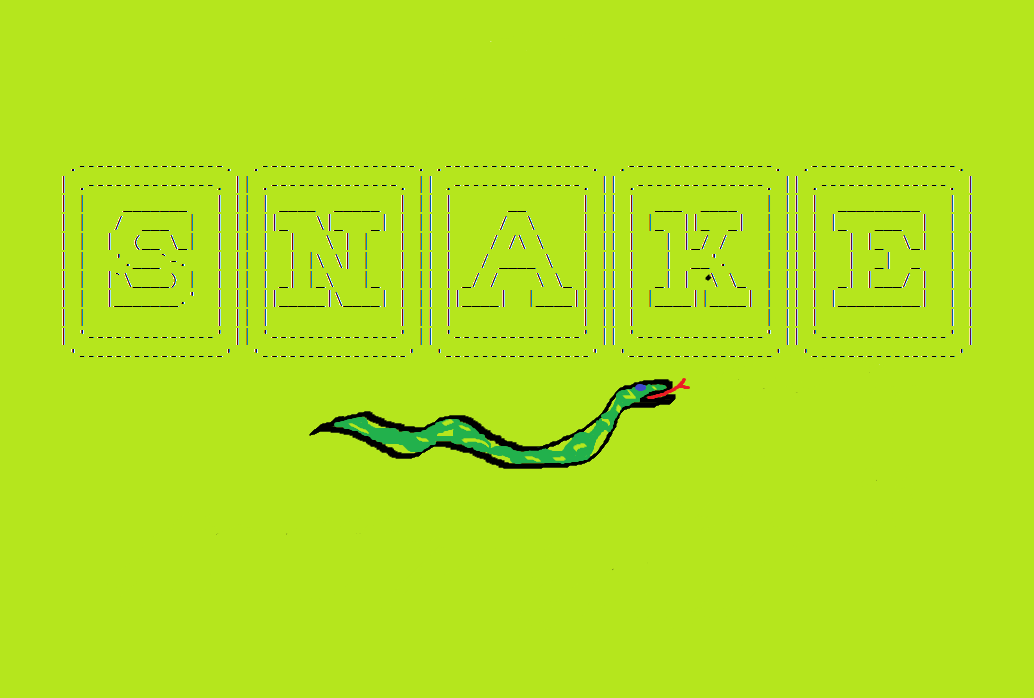
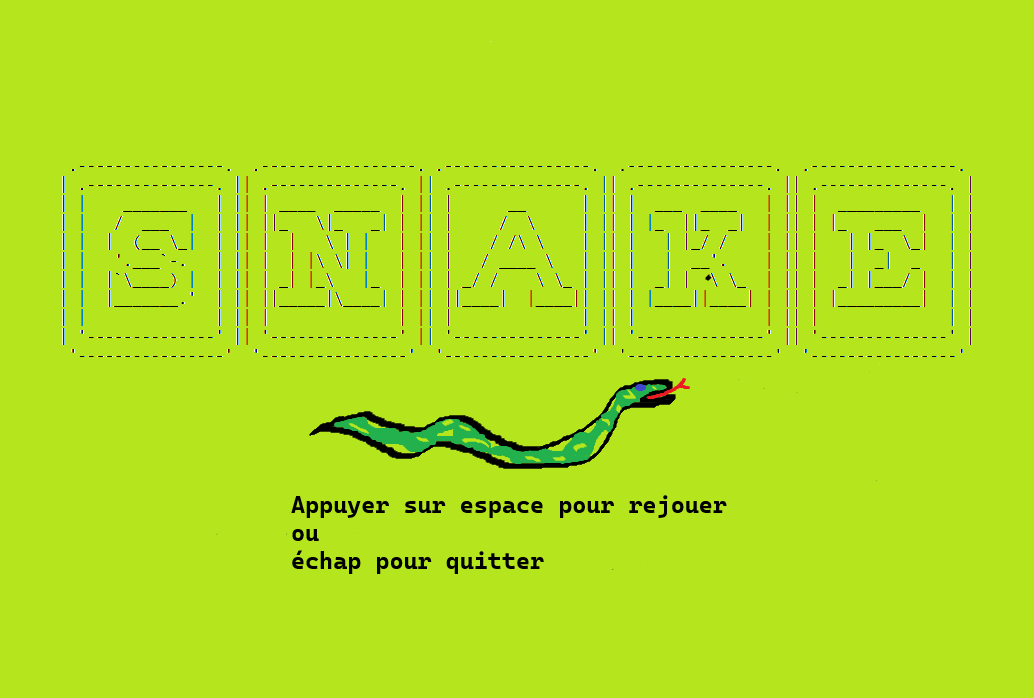
maj2.3

Changed region(s): [[0.2785, 0.692, 0.7118, 0.8424]]

diff --git a/menu.py b/menu.py
@@ -1,11 +1,11 @@
 import pygame
-import sys
+from pygame.locals import *
 
 BLEU_TURQUOISE_FONCE = (0, 102, 102)
 BLANC = (255, 255, 255)
 
-largeur_fenetre_accueil = 400
-hauteur_fenetre_accueil = 300
+largeur_fenetre_accueil = 1034
+hauteur_fenetre_accueil = 511
 
 pygame.init()
 
@@ -20,29 +20,24 @@ def afficher_texte(texte, x, y, couleur, surface):
     surface.blit(texte_surface, texte_rect)
 
 def afficher_accueil():
-    while True:
-        fenetre_accueil.fill(BLEU_TURQUOISE_FONCE)
+    # Mise en place fond d'écran
+    fond = pygame.image.load("sources/acceuil.png")
+    fenetre_accueil.blit(fond, (0, 0))
+    pygame.display.flip()
 
-        afficher_texte('Menu du Snake', largeur_fenetre_accueil // 2, hauteur_fenetre_accueil // 4, BLANC, fenetre_accueil)
-
-        pygame.draw.rect(fenetre_accueil, BLANC, (50, 150, 300, 50))
-        afficher_texte('Jouer', largeur_fenetre_accueil // 2, 175, BLEU_TURQUOISE_FONCE, fenetre_accueil)
-
-        pygame.display.flip()
-
+    # Attendre touche
+    attendre_entree = True
+    while attendre_entree:
         for evenement in pygame.event.get():
-            if evenement.type == pygame.QUIT:
-                pygame.quit()
-                sys.exit()
-            elif evenement.type == pygame.MOUSEBUTTONDOWN and evenement.button == 1:
-                x, y = evenement.pos
-                if 50 <= x <= 350 and 150 <= y <= 200:
-                    return "jouer"
+            if evenement.type == KEYDOWN:
+                if evenement.key == K_KP_ENTER or evenement.key == K_RETURN:
+                    attendre_entree = False
+                    return True  # Retourner True si la touche Entrée est pressée
+
+    return False  # Retourner False si la fenêtre est fermée sans appuyer sur Entrée
 
 if __name__ == '__main__':
-    resultat = afficher_accueil()
-
-    if resultat == "jouer":
+    if afficher_accueil():
         from jeu import Jeu
         jeu = Jeu()
         jeu.executer()

diff --git a/fin_de_partie.py b/fin_de_partie.py
@@ -3,12 +3,16 @@ from pygame.locals import *
 import sys
 
 class FinDePartie:
+    scores = []  # Liste pour stocker les scores des parties précédentes
+
     def __init__(self, score):
-        self.ecran = pygame.display.set_mode((1000, 800))
+        pygame.init()
+        self.ecran = pygame.display.set_mode((1034, 698))
         self.score = score
 
     def afficher(self):
         self.afficher_fond()
+        self.afficher_scores()
         pygame.display.flip()
 
         attendre_entree = True
@@ -34,4 +38,21 @@ class FinDePartie:
     def afficher_fond(self):
         fond = pygame.image.load("sources/findepartie.png")
         self.ecran.blit(fond, (0, 0))
-        pygame.display.flip()
+
+    def afficher_scores(self):
+        # Ajouter le score actuel à la liste des scores
+        self.scores.append(self.score)
+
+        # Afficher les trois derniers scores en haut de la fenêtre
+        police = pygame.font.SysFont('arial', 30)
+        y = 20  # Ajustez la position Y en conséquence
+        for i, score in enumerate(self.scores[-3:]):
+            texte = police.render(f"Score précédent {i + 1} : {score}", True, (255, 255, 255))
+            self.ecran.blit(texte, (400, y))
+            y += 40
+
+
+# Code de test
+if __name__ == '__main__':
+    fin_partie = FinDePartie(10)
+    fin_partie.afficher()
